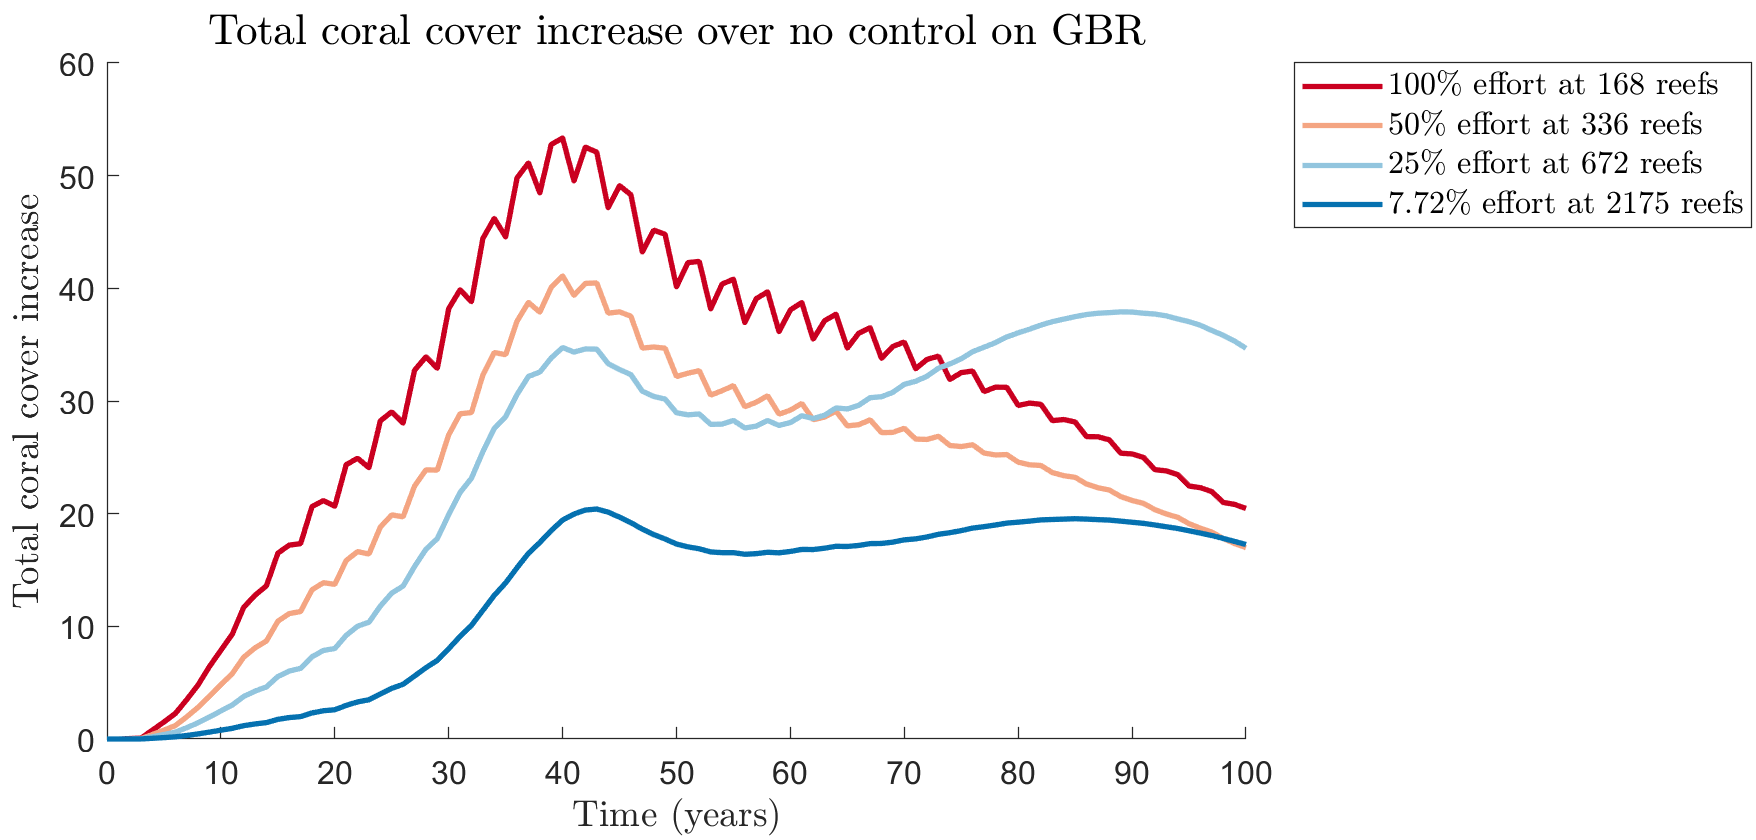
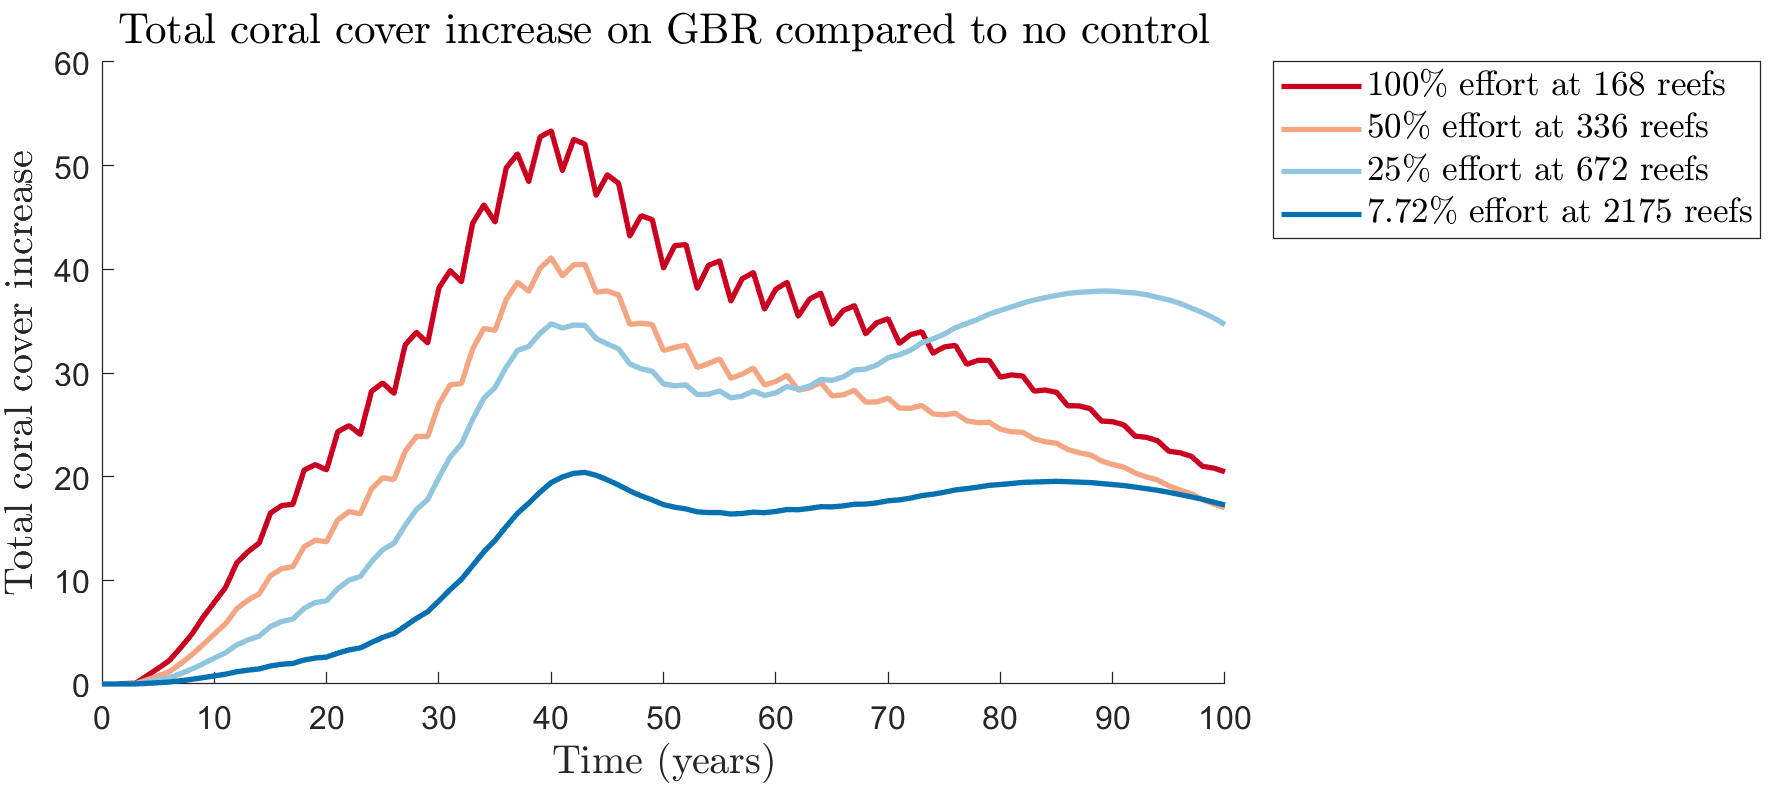
Made some new plots

diff --git a/compare_scenarios_v2.m b/compare_scenarios_v2.m
@@ -292,9 +292,9 @@ control_plot = [control_1_plot control_2_plot control_3_plot control_4_plot];
 
 %% PLOTS
 % Fontsizes for plotting
-axis_FS = 14;
+axis_FS = 15;
 title_FS = 16;
-legend_FS = 12;
+legend_FS = 13;
 ticks_FS = 12;
 
 % Colours for plotting
@@ -342,7 +342,7 @@ b(3).FaceColor = viridis_palette_4(2, :);
 b(4).FaceColor = viridis_palette_4(1, :);
 set(gca, 'FontSize', ticks_FS+1);
 set(gca, 'TickLabelInterpreter', 'Latex')
-title('Number of additional reefs with $x\%$ coral cover compared to no control', ...
+title('\qquad\qquad\qquad Number of additional reefs with $x\%$ coral cover compared to no control after 100 years', ...
     'Interpreter', 'Latex', 'Fontsize', title_FS);
 xlabel('Control scenario', 'Interpreter', 'Latex', 'Fontsize', axis_FS)
 xh = get(gca,'xlabel');
@@ -352,13 +352,13 @@ set(xh,'position',px)
 ylabel('No. of additional reefs', 'Interpreter', 'Latex', 'Fontsize', axis_FS)
 legend('$x<1$\% coral cover', '$1\%\leq x<5\%$ coral cover', ...
     '$5\%\leq x<30\%$ coral cover', '$x\geq 30\%$ coral cover', ...
-    'Interpreter', 'Latex', 'Fontsize', legend_FS+1, 'Location', 'NorthEastOutside');
+    'Interpreter', 'Latex', 'Fontsize', legend_FS, 'Location', 'NorthEastOutside');
 
 
 %% CORAL ==================================================================
 % GBR total coral cover ---------------------------------------------------
 figure(1), clf, hold on
-yline(num_reefs, '--', 'Linewidth', 2, 'Color', [0.8 0.8 0.8])
+yline(num_reefs, '--', 'Linewidth', 2, 'Color', [0.5 0.5 0.5])
 plot(t_vec_s0, coral_s0, 'Linewidth', 2, 'Color', 'black')
 plot(t_vec_s1, coral_s1, 'Linewidth', 2, 'Color', colour_scheme(1, :))
 plot(t_vec_s2, coral_s2, 'Linewidth', 2, 'Color', colour_scheme(2, :))
@@ -384,7 +384,7 @@ set(gca, 'FontSize', ticks_FS);
 xlabel('Time (years)', 'Interpreter', 'Latex', 'Fontsize', axis_FS)
 ylabel('Total coral cover increase', 'Interpreter', 'Latex', ...
     'Fontsize', axis_FS)
-title('Total coral cover increase over no control on GBR', ...
+title('Total coral cover increase on GBR compared to no control', ...
     'Interpreter', 'Latex', 'Fontsize', title_FS)
 legend('100\% effort at 168 reefs', '50\% effort at 336 reefs', ...
     '25\% effort at 672 reefs', '7.72\% effort at 2175 reefs', ...
@@ -392,7 +392,7 @@ legend('100\% effort at 168 reefs', '50\% effort at 336 reefs', ...
 
 % Initiation box total coral cover ----------------------------------------
 figure(3), clf, hold on
-yline(nnz(initial_state.N_0_2), '--', 'Linewidth', 2, 'Color', [0.8 0.8 0.8])
+yline(nnz(initial_state.N_0_2), '--', 'Linewidth', 2, 'Color', [0.5 0.5 0.5])
 plot(t_vec_s0, coral_box_s0, 'Linewidth', 2, 'Color', 'black')
 plot(t_vec_s1, coral_box_s1, 'Linewidth', 2, 'Color', colour_scheme(1, :))
 plot(t_vec_s2, coral_box_s2, 'Linewidth', 2, 'Color', colour_scheme(2, :))
@@ -418,7 +418,7 @@ set(gca, 'FontSize', ticks_FS);
 xlabel('Time (years)', 'Interpreter', 'Latex', 'Fontsize', axis_FS)
 ylabel('Total coral cover increase', 'Interpreter', 'Latex', ...
     'Fontsize', axis_FS)
-title('Total coral cover increase over no control at initiation box', ...
+title('\qquad\qquad Total coral cover increase at initiation box compared to no control', ...
     'Interpreter', 'Latex', 'Fontsize', title_FS)
 legend('100\% effort at 168 reefs', '50\% effort at 336 reefs', ...
     '25\% effort at 672 reefs', '7.72\% effort at 2175 reefs', ...
@@ -469,8 +469,8 @@ set(gca, 'YScale', 'log')
 set(gca, 'FontSize', ticks_FS)
 xlabel('Time (years)', 'Interpreter', 'Latex', 'Fontsize', axis_FS)
 ylabel('Total adult starfish decrease', 'Interpreter', 'Latex', 'Fontsize', axis_FS)
-title('\qquad\qquad\qquad\qquad\qquad Total decrease in adult starfish population over no control on GBR', ...
-    'Interpreter', 'Latex', 'Fontsize', title_FS)
+title('\qquad\qquad\qquad\qquad\qquad\qquad Total decrease in adult starfish population on GBR compared to no control', ...
+    'Interpreter', 'Latex', 'Fontsize', title_FS-1)
 legend('100\% effort at 168 reefs', '50\% effort at 336 reefs', ...
     '25\% effort at 672 reefs', '7.72\% effort at 2175 reefs', ...
     'Location', 'NorthEastOutside', 'Interpreter', 'Latex', 'Fontsize', legend_FS)
@@ -524,7 +524,7 @@ legend('No control', '100\% effort at 168 reefs', '50\% effort at 336 reefs', ..
     '25\% effort at 672 reefs', '7.72\% effort at 2175 reefs', ...
     'Location', 'NorthEastOutside', 'Interpreter', 'Latex', 'Fontsize', legend_FS)
 
-% Initiation box decrease in age 2+ starfish (log scale--------------------
+% Initiation box decrease in age 2+ starfish (log scale) ------------------
 figure(9), clf, hold on
 plot(t_vec_s1, starfish_age2_box_s0-starfish_age2_box_s1, 'Linewidth', 2, 'Color', colour_scheme(1, :))
 plot(t_vec_s2, starfish_age2_box_s0-starfish_age2_box_s2, 'Linewidth', 2, 'Color', colour_scheme(2, :))
@@ -535,8 +535,8 @@ set(gca, 'YScale', 'log')
 set(gca, 'FontSize', ticks_FS)
 xlabel('Time (years)', 'Interpreter', 'Latex', 'Fontsize', axis_FS)
 ylabel('Total adult starfish decrease', 'Interpreter', 'Latex', 'Fontsize', axis_FS)
-title('\qquad\qquad\qquad\qquad\qquad\qquad Total decrease in adult starfish population over no control at initiation box', ...
-    'Interpreter', 'Latex', 'Fontsize', title_FS)
+title('\quad\qquad\qquad\qquad\qquad\qquad\qquad\qquad Total decrease in adult starfish population at initiation box compared to no control', ...
+    'Interpreter', 'Latex', 'Fontsize', title_FS-1)
 legend('100\% effort at 168 reefs', '50\% effort at 336 reefs', ...
     '25\% effort at 672 reefs', '7.72\% effort at 2175 reefs', ...
     'Location', 'NorthEastOutside', 'Interpreter', 'Latex', 'Fontsize', legend_FS)
@@ -721,48 +721,72 @@ legend('100\% effort at 168 reefs', '50\% effort at 336 reefs', ...
 % %     '25\% effort at 672 reefs', '7.72\% effort at 2175 reefs', ...
 % %     'Location', 'NorthEastOutside', 'Interpreter', 'Latex', 'Fontsize', legend_FS)
 
+%% CORAL COVER MAP ========================================================
+% Coral cover on GBR (colormap) -------------------------------------------
+figure(22), clf, hold on, box on
+% Plot outline of Australia
+pt = patch(Outline(:, 1), Outline(:, 2), [1 1 1], 'FaceColor', [0.8 0.8 0.8]);
+% Plot reef locations by color depending on initial cots numbers
+scatter(lat, lon, 10, C_y_f_s4(:, end)-C_y_f_s0(:, end), 'filled')
+% Focus the figure on GBR and QLD
+xlim([140, 155])
+ylim([-26, -8])
+% Add labels
+set(gca, 'FontSize', ticks_FS, 'BoxStyle', 'Full');
+title(['Additional coral cover after ', num2str(t_end), ' years with 25$\%$ effort at 672 reefs'], ...
+    'Interpreter', 'Latex', 'Fontsize', title_FS)
+% Add colorbar
+c = colorbar;
+colormap(viridis)
+c.Label.String = 'Additional coral cover (\% of reef area)';
+c.Label.Interpreter = 'Latex';
+c.Label.FontSize = 14;
+
+% % Save - to avoid font resizing in colorbar
+% saveas(gcf, 'Plots/04_comparisons/coral_gbr_map_compare.png')
 
 
 %% CONTROL EFFORT =========================================================
-% % Control effort heatmaps -------------------------------------------------
-% figure(21), clf, hold on, box on
-% label_strings = {'(a) 100\% effort at 168 reefs', '(b) 50\% effort at 336 reefs', ...
-%     '(c) 25\% effort at 672 reefs', '(d) 7.72\% effort at 2175 reefs'};
-% for i = 1:size(control_plot, 2)
-%     sp = subplot(2, 2, i); hold on, box on
-%     % Plot outline of Australia
-%     pt = patch(Outline(:, 1), Outline(:, 2), [1 1 1], 'FaceColor', [0.8 0.8 0.8]);
-%     % Plot reef locations by color depending on control effort
-%     scatter(lat, lon, 10, control_plot(:, i), 'filled')
-%     colorbar off
-%     colormap parula
-%     caxis([0 1])
-%     % Focus the figure on GBR and QLD
-%     xlim([140, 155])
-%     ylim([-26, -8])
-%     % Add labels
-%     set(gca, 'FontSize', ticks_FS, 'BoxStyle', 'Full');
-%     xlabel(label_strings(i), 'Interpreter', 'Latex', 'Fontsize', axis_FS)
-% %     ylabel(h, 'Control effort, $k_{i,t}$', 'Interpreter', 'Latex', 'Fontsize', axis_FS)
-%     title(['Control scenario ', num2str(i)], 'Interpreter', 'Latex', 'Fontsize', title_FS)
-%     % Positioning
-%     if i == 1
-%         sp.Position = [0.07 0.58 0.33 0.35];
-%     elseif i == 2
-%         sp.Position = [0.5 0.58 0.33 0.35];
-%     elseif i == 3
-%         sp.Position = [0.07 0.11 0.33 0.35];
-%     elseif i == 4
-%         sp.Position = [0.5 0.11 0.33 0.35];
-%     end
-% end
-% 
-% % Add colorbar
-% c = colorbar;
-% c.Position = [0.88 0.11 0.02 0.815];
-% c.Label.String = 'Percentage of age 2+ starfish culled, $k_{i,t}$';
-% c.Label.Interpreter = 'Latex';
-% c.Label.FontSize = 15;
-% 
+% Control effort heatmaps -------------------------------------------------
+figure(21), clf, hold on, box on
+label_strings = {'(a) 100\% effort at 168 reefs', '(b) 50\% effort at 336 reefs', ...
+    '(c) 25\% effort at 672 reefs', '(d) 7.72\% effort at 2175 reefs'};
+for i = 1:size(control_plot, 2)
+    sp = subplot(2, 2, i); hold on, box on
+    % Plot outline of Australia
+    pt = patch(Outline(:, 1), Outline(:, 2), [1 1 1], 'FaceColor', [0.8 0.8 0.8]);
+    % Plot reef locations by color depending on control effort
+    scatter(lat, lon, 10, control_plot(:, i), 'filled')
+    colorbar off
+    colormap parula
+    caxis([0 1])
+    % Focus the figure on GBR and QLD
+    xlim([140, 155])
+    ylim([-26, -8])
+    set(gca, 'YTick', -26:6:-8);
+    % Add labels
+    set(gca, 'BoxStyle', 'Full');
+    xlabel(label_strings(i), 'Interpreter', 'Latex', 'Fontsize', axis_FS-2)
+%     ylabel(h, 'Control effort, $k_{i,t}$', 'Interpreter', 'Latex', 'Fontsize', axis_FS)
+    title(['Control scenario ', num2str(i)], 'Interpreter', 'Latex', 'Fontsize', title_FS-3)
+    % Positioning
+    if i == 1
+        sp.Position = [0.07 0.58 0.33 0.35];
+    elseif i == 2
+        sp.Position = [0.5 0.58 0.33 0.35];
+    elseif i == 3
+        sp.Position = [0.07 0.11 0.33 0.35];
+    elseif i == 4
+        sp.Position = [0.5 0.11 0.33 0.35];
+    end
+end
+
+% Add colorbar
+c = colorbar;
+c.Position = [0.88 0.11 0.02 0.815];
+c.Label.String = 'Percentage of adult starfish culled, $k_{i,t}$';
+c.Label.Interpreter = 'Latex';
+c.Label.FontSize = 14;
+
 % % Save - to avoid font resizing in colorbar
-% % saveas(gcf, 'Plots/04_comparisons/control_effort_compare.png')
+% saveas(gcf, 'Plots/04_comparisons/control_effort_compare.png')

diff --git a/no_control.m b/no_control.m
@@ -165,7 +165,7 @@ viridis=viridis();
 % Total coral cover over time ---------------------------------------------
 figure(13), clf, hold on
 plot(t_vec, coral_s0, 'Linewidth', 2, 'Color', colour_scheme(1, :))
-yline(num_reefs, 'k--', 'Linewidth', 2)
+yline(num_reefs, '--', 'Linewidth', 2, 'Color', [0.5 0.5 0.5])
 set(gca, 'FontSize', ticks_FS)
 xlabel('Time (years)', 'Interpreter', 'Latex', 'Fontsize', axis_FS)
 ylabel('Total coral cover', 'Interpreter', 'Latex', ...
@@ -178,7 +178,7 @@ legend('Total coral cover', 'Carrying capacity', 'Interpreter', 'Latex', ...
 % Total coral cover at initiation box over time ---------------------------
 figure(14), clf, hold on
 plot(t_vec, coral_box, 'Linewidth', 2, 'Color', colour_scheme(1, :))
-yline(nnz(initial_state.N_0_2), 'k--', 'Linewidth', 2)
+yline(nnz(initial_state.N_0_2), '--', 'Linewidth', 2, 'Color', [0.5 0.5 0.5])
 set(gca, 'FontSize', ticks_FS)
 xlabel('Time (years)', 'Interpreter', 'Latex', 'Fontsize', axis_FS)
 ylabel('Total coral cover', 'Interpreter', 'Latex', ...
